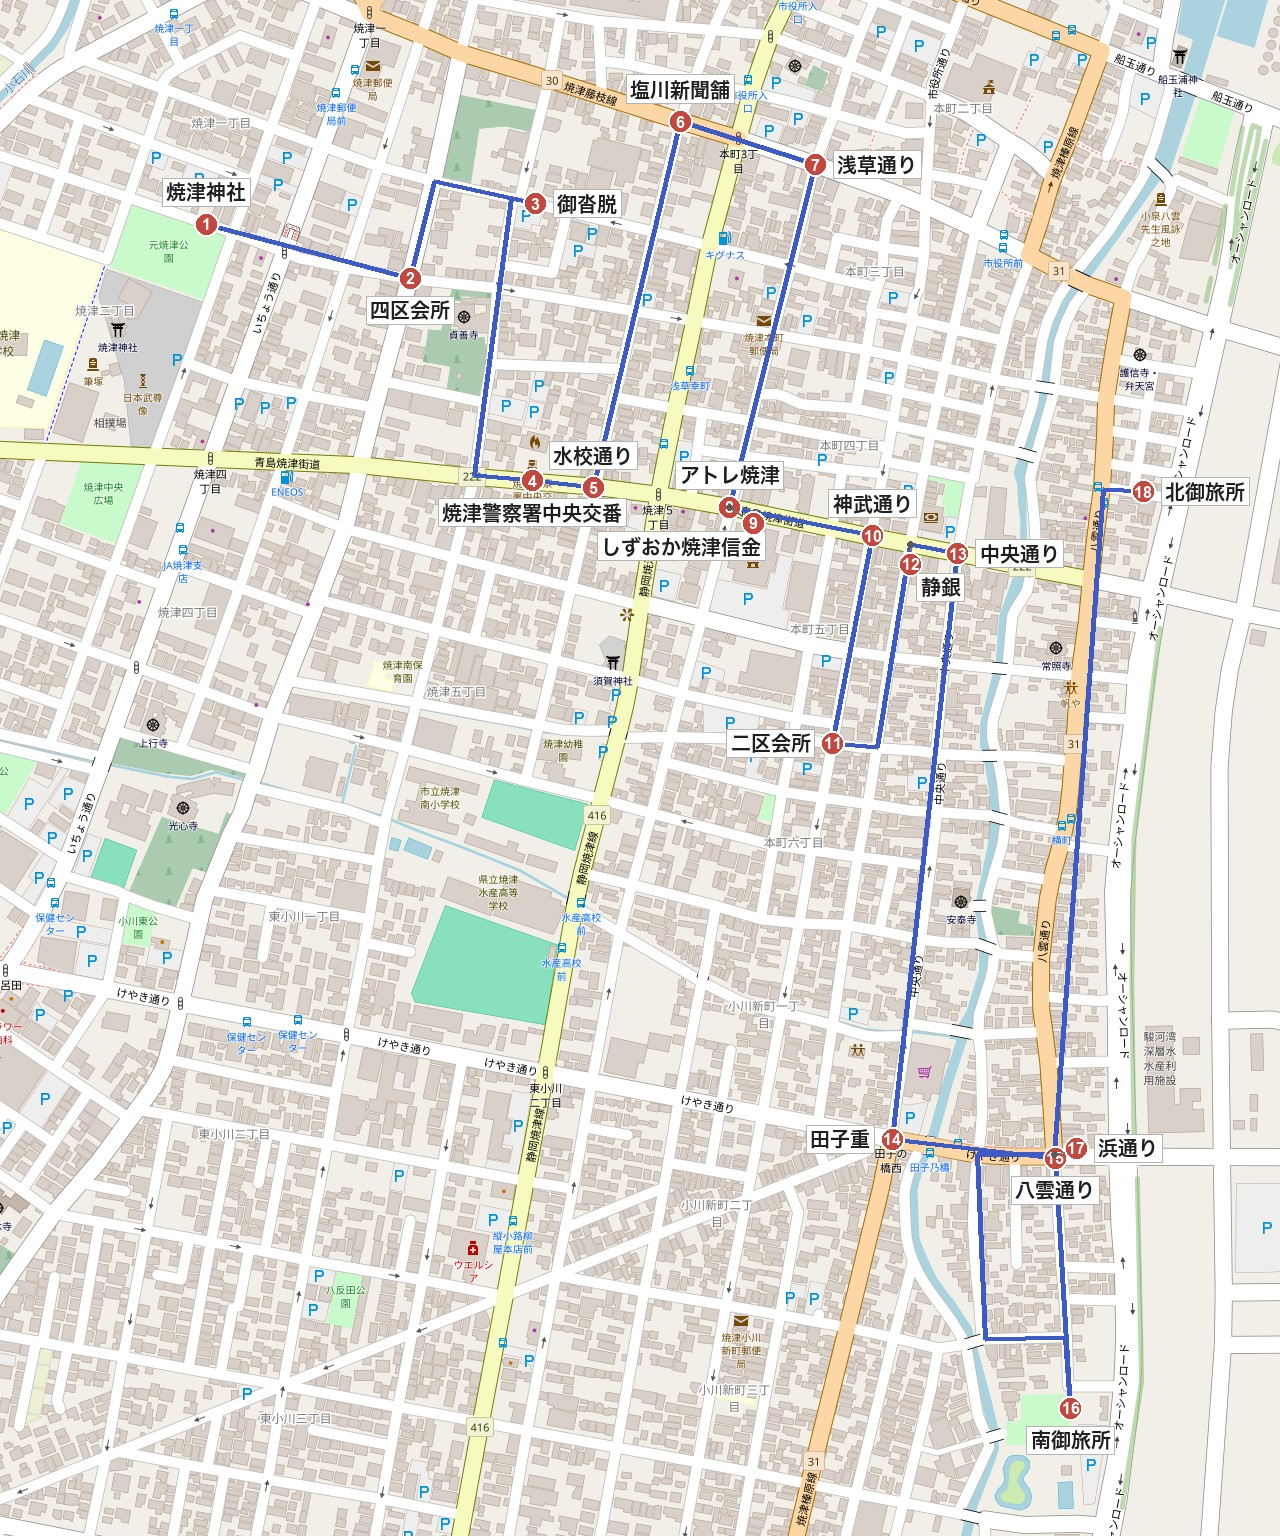
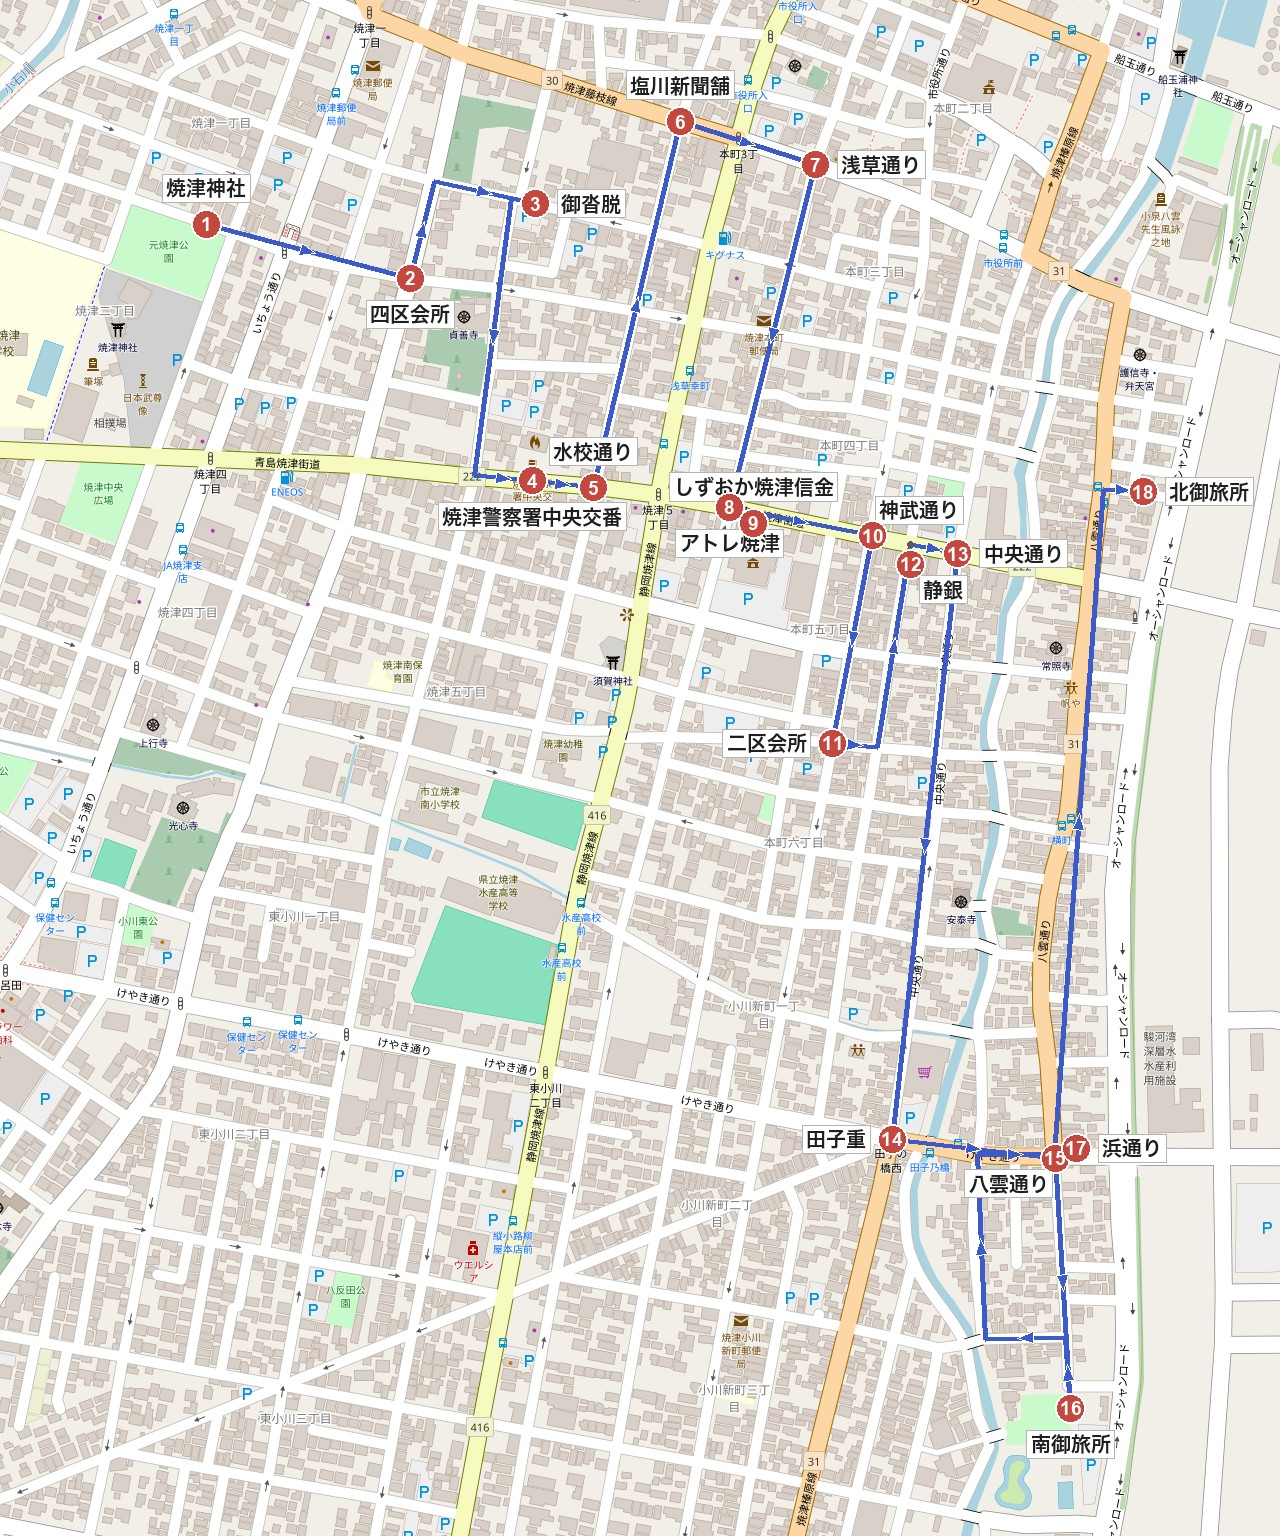
add: 経路に方向矢印を追加、帰路に北御旅所を追加、マーカーを拡大
- mikoshi-route.md: 帰路の先頭に北御旅所を追加（往路#18と同一地点）
- data.js: pointsReturnの先頭に北御旅所を追加
- mikoshi-route-outbound.jpg/return.jpg: 各区間の中間に進行方向の矢印を
  追加。番号マーカーを拡大し、描画順序を「引き出し線→ラベル→マーカー」
  にして、線がマーカーの番号を隠さないようにした

diff --git a/data.js b/data.js
@@ -104,6 +104,7 @@ const FESTIVAL_DATA = {
       { label: "北御旅所", lat: 34.863576, lng: 138.324642, mapUrl: "https://maps.app.goo.gl/jQtywX7DthJRSvPi8" }
     ],
     pointsReturn: [
+      { label: "北御旅所", lat: 34.863576, lng: 138.324642, mapUrl: "https://maps.app.goo.gl/jQtywX7DthJRSvPi8" },
       { label: "魚市場御旅所", lat: 34.864839, lng: 138.326198, mapUrl: "https://maps.app.goo.gl/xc5TQDrHjsgktMVC9" },
       { label: "三区会所", lat: 34.865772, lng: 138.323161, mapUrl: "https://maps.app.goo.gl/AeA29AyfD5pS25SX6" },
       { label: "焼津市役所", lat: 34.866916, lng: 138.322732, mapUrl: "https://maps.app.goo.gl/mwJk7MQUZnMvYL116" },

diff --git a/mikoshi-route.md b/mikoshi-route.md
@@ -27,6 +27,7 @@
 1. [北御旅所](https://maps.app.goo.gl/jQtywX7DthJRSvPi8)
 
 # 帰路
+1. [北御旅所](https://maps.app.goo.gl/jQtywX7DthJRSvPi8)
 1. https://maps.app.goo.gl/uFPuDZBmb6roQQtz9
 1. https://maps.app.goo.gl/HsX8tLTc94p73AJv7
 1. [魚市場御旅所](https://maps.app.goo.gl/xc5TQDrHjsgktMVC9)